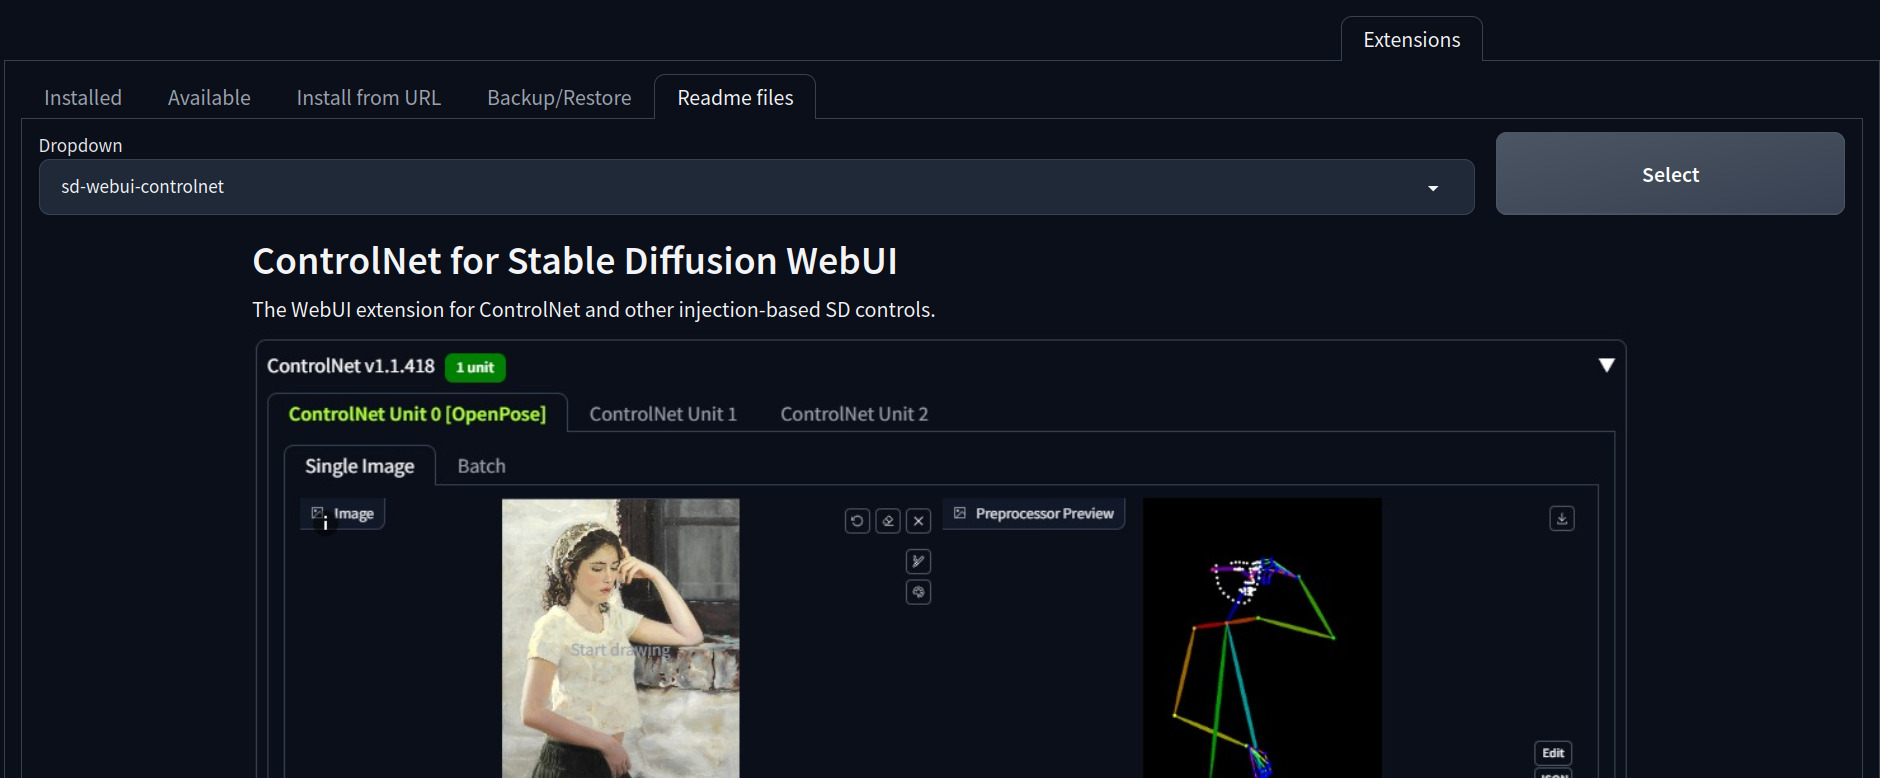
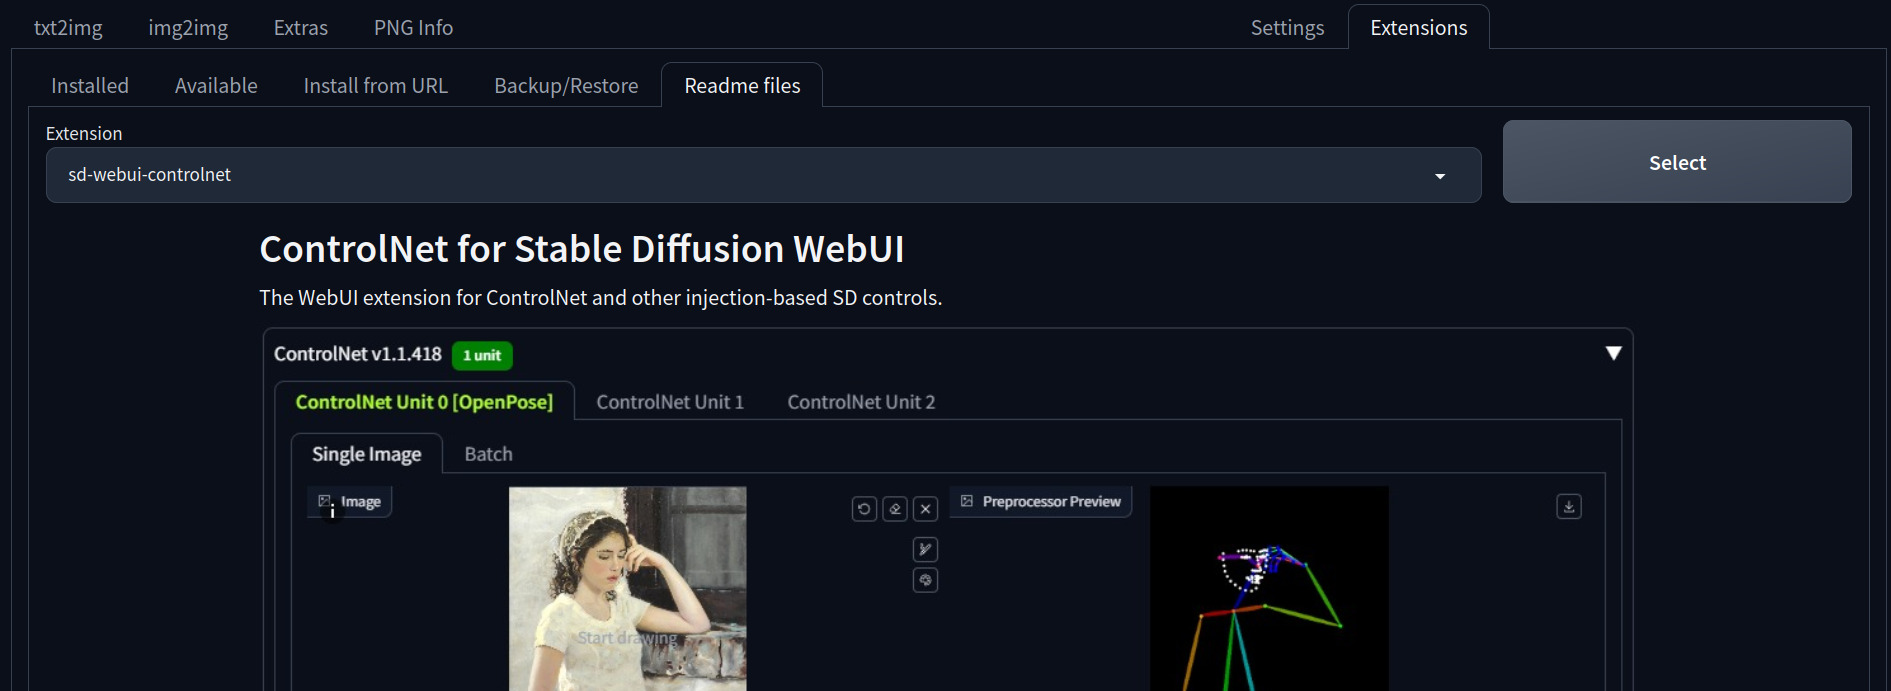
fix dropdown label

diff --git a/readme_browser/main.py b/readme_browser/main.py
@@ -91,7 +91,11 @@ def getTabUI():
         extPath = gr.Textbox("", visible=False)
 
         with gr.Row():
-            selectedExtension = gr.Dropdown(value="None", choices=["None"] + list(readmeFilesByExtName.keys()))
+            selectedExtension = gr.Dropdown(
+                label="Extension",
+                value="None",
+                choices=["None"] + list(readmeFilesByExtName.keys())
+            )
             selectButton = gr.Button('Select')
             selectButton.click(
                 fn=selectExtension,
